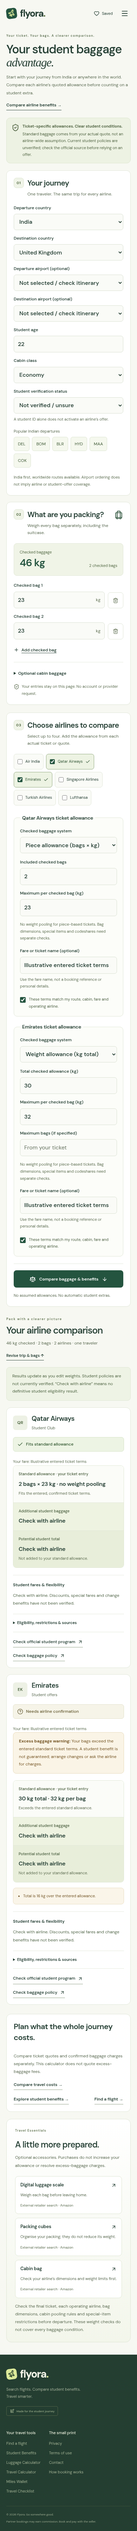
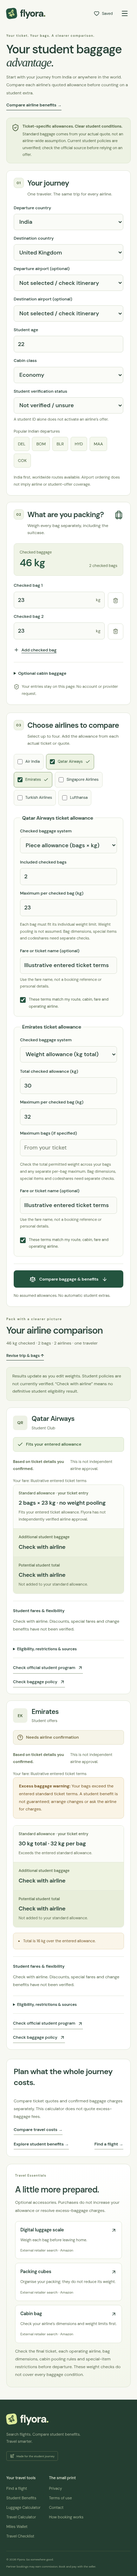
Clarify baggage guidance and require explicit ticket confirmation

diff --git a/tests/e2e/luggage-calculator.spec.ts b/tests/e2e/luggage-calculator.spec.ts
@@ -2,6 +2,10 @@ import { test, expect, type Locator, type Page } from '@playwright/test';
 import AxeBuilder from '@axe-core/playwright';
 
 const confirmation = 'These terms match my route, cabin, fare and operating airline.';
+const pieceHelp = 'Each bag must fit its individual weight limit. Weight pooling is not assumed.';
+const weightHelp = 'Check the total permitted weight across your bags and any separate per-bag maximum.';
+const unconfirmedTicket = 'Illustrative / unconfirmed ticket details. Confirm your route, cabin, fare and operating airline before relying on this comparison.';
+const confirmedTicket = 'Based on ticket details you confirmed. This is not independent airline approval.';
 
 function ticket(page: Page, airline: string) {
   return page.getByRole('group', { name: `${airline} ticket allowance`, exact: true });
@@ -19,18 +23,18 @@ async function openCalculator(page: Page) {
   await page.getByRole('spinbutton', { name: /^Checked bag 2\b/ }).fill('23');
 }
 
-async function pieceTicket(group: Locator, pieces = '2', kg = '23') {
+async function pieceTicket(group: Locator, pieces = '2', kg = '23', confirm = true) {
   await group.getByRole('combobox', { name: 'Checked baggage system', exact: true }).selectOption('pieces');
   await group.getByLabel('Included checked bags', { exact: true }).fill(pieces);
   await group.getByLabel('Maximum per checked bag (kg)', { exact: true }).fill(kg);
-  await group.getByRole('checkbox', { name: confirmation, exact: true }).check();
+  if (confirm) await group.getByRole('checkbox', { name: confirmation, exact: true }).check();
 }
 
-async function weightTicket(group: Locator, total = '30', kg = '32') {
+async function weightTicket(group: Locator, total = '30', kg = '32', confirm = true) {
   await group.getByRole('combobox', { name: 'Checked baggage system', exact: true }).selectOption('weight');
   await group.getByLabel('Total checked allowance (kg)', { exact: true }).fill(total);
   await group.getByLabel('Maximum per checked bag (kg)', { exact: true }).fill(kg);
-  await group.getByRole('checkbox', { name: confirmation, exact: true }).check();
+  if (confirm) await group.getByRole('checkbox', { name: confirmation, exact: true }).check();
 }
 
 async function compare(page: Page) {
@@ -54,6 +58,68 @@ test('India-first defaults compare two 23 kg bags without inventing a ticket or 
   await expect(page.getByText('Optional accessories. Purchases do not increase your allowance or resolve excess-baggage charges.', { exact: true })).toBeVisible();
 });
 
+test('help text follows each ticket’s allowance system without piece guidance under weight allowances', async ({ page }) => {
+  await openCalculator(page);
+  const qatar = ticket(page, 'Qatar Airways');
+  const emirates = ticket(page, 'Emirates');
+  await pieceTicket(qatar);
+  await weightTicket(emirates);
+  await expect(qatar.getByText(pieceHelp)).toBeVisible();
+  await expect(qatar.getByText(weightHelp)).toHaveCount(0);
+  await expect(emirates.getByText(weightHelp)).toBeVisible();
+  await expect(emirates.getByText(pieceHelp)).toHaveCount(0);
+  await expect(emirates.getByText(/pooling|piece-based/i)).toHaveCount(0);
+  await qatar.getByRole('combobox', { name: 'Checked baggage system', exact: true }).selectOption('weight');
+  await expect(qatar.getByText(weightHelp)).toBeVisible();
+  await expect(qatar.getByText(/pooling|piece-based/i)).toHaveCount(0);
+  await qatar.getByRole('combobox', { name: 'Checked baggage system', exact: true }).selectOption('pieces');
+  await expect(qatar.getByText(pieceHelp)).toBeVisible();
+  await expect(qatar.getByText(weightHelp)).toHaveCount(0);
+});
+
+test('ticket confirmation requires an active opt-in and unconfirmed results stay illustrative', async ({ page }) => {
+  await openCalculator(page);
+  const qatarTicket = ticket(page, 'Qatar Airways');
+  const emiratesTicket = ticket(page, 'Emirates');
+  const qatarConfirmation = qatarTicket.getByRole('checkbox', { name: confirmation, exact: true });
+  const emiratesConfirmation = emiratesTicket.getByRole('checkbox', { name: confirmation, exact: true });
+  await expect(qatarConfirmation).not.toBeChecked();
+  await expect(emiratesConfirmation).not.toBeChecked();
+  await pieceTicket(qatarTicket, '2', '23', false);
+  await weightTicket(emiratesTicket, '46', '23', false);
+  await expect(qatarConfirmation).not.toBeChecked();
+  await expect(emiratesConfirmation).not.toBeChecked();
+  await compare(page);
+  const qatar = comparison(page, 'Qatar Airways');
+  const emirates = comparison(page, 'Emirates');
+  for (const card of [qatar, emirates]) {
+    await expect(card.locator('.baggage-outcome')).toHaveText('Needs airline confirmation');
+    await expect(card.locator('.baggage-ticket-status')).toHaveText(unconfirmedTicket);
+    await expect(card.getByText('Fits your entered allowance', { exact: true })).toHaveCount(0);
+    await expect(card.getByText('Fits your entered ticket allowance. Flyora has not independently verified airline approval.', { exact: true })).toHaveCount(0);
+  }
+  await qatarConfirmation.check();
+  await expect(qatar.locator('.baggage-outcome')).toHaveText('Fits your entered allowance');
+  await expect(qatar.locator('.baggage-ticket-status')).toHaveText(confirmedTicket);
+  await expect(qatar.getByText('Fits your entered ticket allowance. Flyora has not independently verified airline approval.', { exact: true })).toBeVisible();
+  await expect(emirates.locator('.baggage-ticket-status')).toHaveText(unconfirmedTicket);
+  await expect(emiratesConfirmation).not.toBeChecked();
+  await qatarConfirmation.uncheck();
+  await expect(qatar.locator('.baggage-outcome')).toHaveText('Needs airline confirmation');
+  await expect(qatar.locator('.baggage-ticket-status')).toHaveText(unconfirmedTicket);
+  await qatarConfirmation.check();
+  await qatarTicket.getByLabel('Maximum per checked bag (kg)', { exact: true }).fill('24');
+  await expect(qatarConfirmation).not.toBeChecked();
+  await expect(qatar.locator('.baggage-outcome')).toHaveText('Needs airline confirmation');
+  await expect(qatar.locator('.baggage-ticket-status')).toHaveText(unconfirmedTicket);
+  await qatarConfirmation.check();
+  await page.reload();
+  await expect(qatarConfirmation).not.toBeChecked();
+  await expect(emiratesConfirmation).not.toBeChecked();
+  await page.getByRole('region', { name: 'Choose airlines to compare', exact: true }).getByRole('checkbox', { name: 'Air India', exact: true }).check();
+  await expect(ticket(page, 'Air India').getByRole('checkbox', { name: confirmation, exact: true })).not.toBeChecked();
+});
+
 test('compares entered piece and weight allowances side by side and updates weights without restarting', async ({ page }) => {
   await openCalculator(page);
   await pieceTicket(ticket(page, 'Qatar Airways'));
@@ -61,15 +127,15 @@ test('compares entered piece and weight allowances side by side and updates weig
   await compare(page);
   const qatar = comparison(page, 'Qatar Airways');
   const emirates = comparison(page, 'Emirates');
-  await expect(qatar.locator('.baggage-outcome')).toHaveText('Fits standard allowance');
+  await expect(qatar.locator('.baggage-outcome')).toHaveText('Fits your entered allowance');
   await expect(qatar.getByText(/^2 bags × 23 kg · no weight pooling/)).toBeVisible();
   await expect(emirates.getByText(/^30 kg total · 32 kg per bag/)).toBeVisible();
   await expect(emirates.getByText('Total is 16 kg over the entered allowance.', { exact: true })).toBeVisible();
   await expect(emirates.getByText('Exceeds the entered standard allowance.', { exact: true })).toBeVisible();
   await page.getByRole('spinbutton', { name: /^Checked bag 2\b/ }).fill('7');
   await expect(page.getByText('30 kg checked · 2 bags · 2 airlines · one traveler', { exact: true })).toBeVisible();
-  await expect(qatar.locator('.baggage-outcome')).toHaveText('Fits standard allowance');
-  await expect(emirates.locator('.baggage-outcome')).toHaveText('Fits standard allowance');
+  await expect(qatar.locator('.baggage-outcome')).toHaveText('Fits your entered allowance');
+  await expect(emirates.locator('.baggage-outcome')).toHaveText('Fits your entered allowance');
   await expect(emirates.getByText('Total is 16 kg over the entered allowance.', { exact: true })).toHaveCount(0);
 });
 
@@ -83,8 +149,8 @@ test('piece allowances reject pooling and excess bag counts even when total weig
   await page.getByRole('spinbutton', { name: /^Checked bag 2\b/ }).fill('22');
   await expect(page.getByText('46 kg checked · 2 bags · 2 airlines · one traveler', { exact: true })).toBeVisible();
   await expect(qatar.getByText(/^Bag 1 exceeds the 23 kg per-bag limit/)).toBeVisible();
-  await expect(qatar.locator('.baggage-outcome')).not.toHaveText('Fits standard allowance');
-  await expect(comparison(page, 'Emirates').locator('.baggage-outcome')).toHaveText('Fits standard allowance');
+  await expect(qatar.locator('.baggage-outcome')).not.toHaveText('Fits your entered allowance');
+  await expect(comparison(page, 'Emirates').locator('.baggage-outcome')).toHaveText('Fits your entered allowance');
   await page.getByRole('button', { name: 'Add checked bag', exact: true }).click();
   await page.getByRole('spinbutton', { name: /^Checked bag 3\b/ }).fill('1');
   await expect(qatar.getByText('3 bags exceed the 2-bag limit.', { exact: true })).toBeVisible();
@@ -96,12 +162,12 @@ test('route, cabin and fare edits invalidate confirmed ticket allowances', async
   await pieceTicket(qatarTicket);
   await compare(page);
   const qatar = comparison(page, 'Qatar Airways');
-  await expect(qatar.locator('.baggage-outcome')).toHaveText('Fits standard allowance');
+  await expect(qatar.locator('.baggage-outcome')).toHaveText('Fits your entered allowance');
   await page.getByRole('combobox', { name: 'Destination country', exact: true }).selectOption('CA');
   await expect(qatarTicket.getByRole('checkbox', { name: confirmation, exact: true })).not.toBeChecked();
   await expect(qatar.locator('.baggage-outcome')).toHaveText('Needs airline confirmation');
   await qatarTicket.getByRole('checkbox', { name: confirmation, exact: true }).check();
-  await expect(qatar.locator('.baggage-outcome')).toHaveText('Fits standard allowance');
+  await expect(qatar.locator('.baggage-outcome')).toHaveText('Fits your entered allowance');
   await page.getByRole('combobox', { name: 'Cabin class', exact: true }).selectOption('business');
   await expect(qatarTicket.getByRole('checkbox', { name: confirmation, exact: true })).not.toBeChecked();
   await expect(qatar.locator('.baggage-outcome')).toHaveText('Needs airline confirmation');
@@ -123,7 +189,7 @@ test('optional cabin baggage is checked separately from checked bags', async ({ 
   await qatarTicket.getByRole('checkbox', { name: confirmation, exact: true }).check();
   await compare(page);
   const qatar = comparison(page, 'Qatar Airways');
-  await expect(qatar.getByText('Fits the entered, confirmed ticket terms.', { exact: true })).toBeVisible();
+  await expect(qatar.getByText('Fits your entered ticket allowance. Flyora has not independently verified airline approval.', { exact: true })).toBeVisible();
   await expect(qatar.getByText('Exceeds entered cabin limits', { exact: true })).toBeVisible();
   await expect(qatar.getByText(/^Cabin: Bag 1 exceeds the 7 kg per-bag limit/)).toBeVisible();
   await expect(qatar.locator('.baggage-outcome')).toHaveText('Exceeds allowance');
@@ -155,7 +221,7 @@ for (const width of [390, 360]) {
     expect(await page.evaluate(() => document.documentElement.scrollWidth <= innerWidth)).toBe(true);
     await pieceTicket(ticket(page, 'Qatar Airways'));
     await compare(page);
-    await expect(comparison(page, 'Qatar Airways').locator('.baggage-outcome')).toHaveText('Fits standard allowance');
+    await expect(comparison(page, 'Qatar Airways').locator('.baggage-outcome')).toHaveText('Fits your entered allowance');
     await expect(comparison(page, 'Emirates').locator('.baggage-outcome')).toHaveText('Needs airline confirmation');
     await page.getByRole('spinbutton', { name: /^Checked bag 2\b/ }).fill('22');
     await expect(page.getByText('45 kg checked · 2 bags · 2 airlines · one traveler', { exact: true })).toBeVisible();

diff --git a/src/components/student-baggage-calculator.tsx b/src/components/student-baggage-calculator.tsx
@@ -79,7 +79,7 @@ export function StudentBaggageCalculator({ essentials, today }: { essentials: Tr
           const ticket = tickets[code] ?? newTicket();
           const field = (key: 'total' | 'perBag' | 'maxPieces' | 'cabinPieces' | 'cabinKg', label: string, whole = false) => <label className="tool-label">{label}<input type="number" inputMode={whole ? 'numeric' : 'decimal'} min={key === 'perBag' || key === 'cabinKg' ? '0.01' : '0'} step={whole ? '1' : '0.01'} value={ticket[key]} placeholder="From your ticket" onChange={event => editTicket(code, { [key]: event.target.value, confirmed: false })} /></label>;
           return <fieldset className="baggage-ticket" key={code}><legend>{company.name} ticket allowance</legend><label className="tool-label">Checked baggage system<select value={ticket.basis} onChange={event => editTicket(code, { basis: event.target.value as TicketInput['basis'], total: '', perBag: '', maxPieces: '', confirmed: false })}><option value="unknown">I don’t know yet</option><option value="weight">Weight allowance (kg total)</option><option value="pieces">Piece allowance (bags × kg)</option></select></label>
-            {ticket.basis !== 'unknown' && <><div className="baggage-form-grid">{field('total', ticket.basis === 'weight' ? 'Total checked allowance (kg)' : 'Included checked bags', ticket.basis === 'pieces')}{field('perBag', 'Maximum per checked bag (kg)')}{ticket.basis === 'weight' && field('maxPieces', 'Maximum bags (if specified)', true)}</div><p className="baggage-small-note">No weight pooling for piece-based tickets. Bag dimensions, special items and codeshares need separate checks.</p></>}
+            {ticket.basis !== 'unknown' && <><div className="baggage-form-grid">{field('total', ticket.basis === 'weight' ? 'Total checked allowance (kg)' : 'Included checked bags', ticket.basis === 'pieces')}{field('perBag', 'Maximum per checked bag (kg)')}{ticket.basis === 'weight' && field('maxPieces', 'Maximum bags (if specified)', true)}</div><p className="baggage-small-note baggage-system-help">{ticket.basis === 'pieces' ? 'Each bag must fit its individual weight limit. Weight pooling is not assumed.' : 'Check the total permitted weight across your bags and any separate per-bag maximum.'} Bag dimensions, special items and codeshares need separate checks.</p></>}
             <label className="tool-label">Fare or ticket name (optional)<input maxLength={80} value={ticket.fareName} placeholder="e.g. the fare name on your quote" onChange={event => editTicket(code, { fareName: event.target.value })} /><small>Use the fare name, not a booking reference or personal details.</small></label>
             {cabin.length > 0 && <div className="baggage-form-grid">{field('cabinPieces', 'Included cabin bags', true)}{field('cabinKg', 'Maximum per cabin bag (kg)')}</div>}
             <label className="baggage-confirm"><input type="checkbox" checked={ticket.confirmed} onChange={event => editTicket(code, { confirmed: event.target.checked })} />These terms match my route, cabin, fare and operating airline.</label>
@@ -93,10 +93,13 @@ export function StudentBaggageCalculator({ essentials, today }: { essentials: Tr
       <p className="baggage-result-notice" role="status">{revision ? 'Journey changed: reconfirm each ticket’s route, cabin, fare and operating airline. ' : 'Results update as you edit weights. '}Student policies are not currently verified. “Check with airline” means no definitive student eligibility result.</p>
       <div className="baggage-comparison-grid">{comparison.map(result => <article className="baggage-result-card" aria-label={result.airline.name + ' baggage comparison'} key={result.airline.code}>
         <div className="baggage-result-brand"><span>{result.airline.code}</span><div><h3>{result.airline.name}</h3><p>{result.airline.programName}</p></div></div>
-        <p className={'baggage-outcome ' + (result.status === 'Fits standard allowance' ? 'baggage-outcome-fit' : '')}>{result.status === 'Fits standard allowance' ? <Check size={17} aria-hidden="true" /> : <CircleHelp size={17} aria-hidden="true" />}{result.status}</p>
+        <p className={'baggage-outcome ' + (result.status === 'Fits your entered allowance' ? 'baggage-outcome-fit' : '')}>{result.status === 'Fits your entered allowance' ? <Check size={17} aria-hidden="true" /> : <CircleHelp size={17} aria-hidden="true" />}{result.status}</p>
+        <p className="baggage-small-note baggage-ticket-status">{tickets[result.airline.code]?.confirmed
+          ? <><strong>Based on ticket details you confirmed.</strong> This is not independent airline approval.</>
+          : <><strong>Illustrative / unconfirmed ticket details.</strong> Confirm your route, cabin, fare and operating airline before relying on this comparison.</>}</p>
         {tickets[result.airline.code]?.fareName.trim() && <p className="baggage-small-note">Your fare: {tickets[result.airline.code].fareName.trim()}</p>}
         {result.standard.status === 'exceeds' && <p className="baggage-warning"><strong>Excess baggage warning:</strong> Your bags exceed the entered standard ticket terms. A student benefit is not guaranteed; arrange changes or ask the airline for charges.</p>}
-        <dl className="baggage-result-values"><div><dt>Standard allowance · your ticket entry</dt><dd>{ruleLabel(ticketTerms(tickets[result.airline.code] ?? newTicket()).standard)}<small>{result.standard.status === 'fits' ? 'Fits the entered, confirmed ticket terms.' : result.standard.status === 'exceeds' ? 'Exceeds the entered standard allowance.' : 'Ticket-specific confirmation needed.'}</small></dd></div><div><dt>Additional student baggage</dt><dd>{result.program?.extraLabel ?? 'Check with airline'}</dd></div><div><dt>Potential student total</dt><dd>{ruleLabel(result.program?.allowance ?? null)}<small>{result.eligibility.applicable ? 'May apply after airline confirmation.' : 'Not added to your standard allowance.'}</small></dd></div>{cabin.length > 0 && <div><dt>Cabin baggage</dt><dd>{result.cabin.status === 'fits' ? 'Fits entered cabin limits' : result.cabin.status === 'exceeds' ? 'Exceeds entered cabin limits' : 'Needs airline confirmation'}</dd></div>}</dl>
+        <dl className="baggage-result-values"><div><dt>Standard allowance · your ticket entry</dt><dd>{ruleLabel(ticketTerms(tickets[result.airline.code] ?? newTicket()).standard)}<small>{result.standard.status === 'fits' ? 'Fits your entered ticket allowance. Flyora has not independently verified airline approval.' : result.standard.status === 'exceeds' ? 'Exceeds the entered standard allowance.' : 'Ticket-specific confirmation needed.'}</small></dd></div><div><dt>Additional student baggage</dt><dd>{result.program?.extraLabel ?? 'Check with airline'}</dd></div><div><dt>Potential student total</dt><dd>{ruleLabel(result.program?.allowance ?? null)}<small>{result.eligibility.applicable ? 'May apply after airline confirmation.' : 'Not added to your standard allowance.'}</small></dd></div>{cabin.length > 0 && <div><dt>Cabin baggage</dt><dd>{result.cabin.status === 'fits' ? 'Fits your entered cabin limits' : result.cabin.status === 'exceeds' ? 'Exceeds entered cabin limits' : 'Needs airline confirmation'}</dd></div>}</dl>
         {result.standard.reasons.length > 0 && <ul className="baggage-result-reasons">{result.standard.reasons.map(reason => <li key={reason}>{reason}</li>)}</ul>}
         {result.cabin.reasons.length > 0 && <ul className="baggage-result-reasons">{result.cabin.reasons.map(reason => <li key={reason}>Cabin: {reason}</li>)}</ul>}
         <div className="baggage-offer-notes"><h4>Student fares & flexibility</h4>{result.program ? <ul>{result.program.benefits.map(benefit => <li key={benefit}>{benefit}</li>)}</ul> : <p>Check with airline. Discounts, special fares and change benefits have not been verified.</p>}</div>

diff --git a/tests/unit/student-baggage.test.ts b/tests/unit/student-baggage.test.ts
@@ -199,12 +199,29 @@ describe('conditional student eligibility', () => {
 });
 
 describe('airline comparisons and result states', () => {
-  it('distinguishes a known standard fit from unverified student terms', () => {
+  it('labels a confirmed fit as the user’s entered allowance, independently of unverified student terms', () => {
     const result = compareBaggage(airline(), journey(), [23, 23], [], ticket(), today);
-    expect(result.status).toBe('Fits standard allowance');
+    expect(result.status).toBe('Fits your entered allowance');
     expect(result.standard.status).toBe('fits');
     expect(result.student.status).toBe('unknown');
     expect(result.eligibility.applicable).toBe(false);
+  });
+
+  it.each([
+    { name: 'piece-based', standard: twoPieces },
+    { name: 'weight-based', standard: { basis: 'weight', totalKg: 46, perBagKg: 23 } as BaggageRule },
+  ])('requires explicit ticket-context confirmation for a $name allowance, even when every entered bag fits', ({ standard }) => {
+    const terms = ticket({ standard, contextConfirmed: false, cabin: { pieces: 1, perBagKg: 7 } });
+    const unconfirmed = compareBaggage(airline(), journey(), [23, 23], [7], terms, today);
+    expect(assessBags([23, 23], standard).status).toBe('fits');
+    expect(unconfirmed.status).toBe('Needs airline confirmation');
+    expect(unconfirmed.standard.status).toBe('unknown');
+    expect(unconfirmed.cabin.status).toBe('unknown');
+    const confirmed = compareBaggage(airline(), journey(), [23, 23], [7], { ...terms, contextConfirmed: true }, today);
+    expect(confirmed.status).toBe('Fits your entered allowance');
+    expect(confirmed.standard.status).toBe('fits');
+    expect(confirmed.cabin.status).toBe('fits');
+    expect(confirmed.student.status).toBe('unknown');
   });
 
   it('keeps explicit standard excess warnings when unknown student terms prevent a definitive overall result', () => {
@@ -227,7 +244,7 @@ describe('airline comparisons and result states', () => {
   it('retains a standard fit if a conditional program has a smaller total allowance', () => {
     const result = compareBaggage(airline({ program: program({ allowance: { basis: 'pieces', pieces: 1, perBagKg: 23 } }) }), journey(), [23, 23], [], ticket({ studentActivationConfirmed: true }), today);
     expect(result.student.status).toBe('exceeds');
-    expect(result.status).toBe('Fits standard allowance');
+    expect(result.status).toBe('Fits your entered allowance');
   });
 
   it('does not activate student extras from verification alone or an unconfirmed ticket context', () => {
@@ -252,7 +269,7 @@ describe('airline comparisons and result states', () => {
     const results = companies.map((company, index) => compareBaggage(company, journey(), [23, 23], [], tickets[index], today));
     expect(results.map(result => result.airline.code)).toEqual(['XX', 'YY']);
     expect(results.map(result => result.standard.status)).toEqual(['fits', 'exceeds']);
-    expect(results.map(result => result.status)).toEqual(['Fits standard allowance', 'Needs airline confirmation']);
+    expect(results.map(result => result.status)).toEqual(['Fits your entered allowance', 'Needs airline confirmation']);
   });
 
   it.each([
@@ -267,7 +284,7 @@ describe('airline comparisons and result states', () => {
 
   it('handles optional cabin bags separately from checked baggage', () => {
     expect(compareBaggage(airline(), journey(), [23, 23], [7], ticket(), today).status).toBe('Needs airline confirmation');
-    expect(compareBaggage(airline(), journey(), [23, 23], [7], ticket({ cabin: { pieces: 1, perBagKg: 7 } }), today).status).toBe('Fits standard allowance');
+    expect(compareBaggage(airline(), journey(), [23, 23], [7], ticket({ cabin: { pieces: 1, perBagKg: 7 } }), today).status).toBe('Fits your entered allowance');
     const overweightCabin = compareBaggage(airline(), journey(), [23, 23], [8], ticket({ cabin: { pieces: 1, perBagKg: 7 } }), today);
     expect(overweightCabin.status).toBe('Exceeds allowance');
     expect(overweightCabin.cabin.reasons).toContain('Bag 1 exceeds the 7 kg per-bag limit (1 kg over).');

diff --git a/src/lib/student-baggage.ts b/src/lib/student-baggage.ts
@@ -52,7 +52,7 @@ export interface TicketTerms {
   cabin?: { pieces: number; perBagKg: number };
 }
 export type Fit = 'fits' | 'exceeds' | 'unknown';
-export type ComparisonStatus = 'Fits standard allowance' | 'May fit with student benefit' | 'Exceeds allowance' | 'Needs airline confirmation';
+export type ComparisonStatus = 'Fits your entered allowance' | 'May fit with student benefit' | 'Exceeds allowance' | 'Needs airline confirmation';
 export interface FitResult { status: Fit; reasons: string[] }
 
 export function validRule(rule: BaggageRule): boolean {
@@ -127,7 +127,7 @@ export function compareBaggage(airline: BaggageAirline, journey: Journey, checke
   const student = assessBags(checked, eligibility.applicable && program ? program.allowance : null);
   const cabinResult = cabin.length ? assessBags(cabin, terms.contextConfirmed && journeyComplete && terms.cabin ? { basis: 'pieces', ...terms.cabin } : null) : { status: 'fits' as Fit, reasons: [] };
   let status: ComparisonStatus = 'Needs airline confirmation';
-  if (standard.status === 'fits') status = 'Fits standard allowance';
+  if (standard.status === 'fits') status = 'Fits your entered allowance';
   else if (student.status === 'fits') status = 'May fit with student benefit';
   else if (standard.status === 'exceeds' && student.status === 'exceeds') status = 'Exceeds allowance';
   // Without reviewed student terms, excess against the entered standard stays explicit,

diff --git a/docs/luggage-calculator.md b/docs/luggage-calculator.md
@@ -38,6 +38,12 @@ no review date, age eligibility, standard allowance, student extra or discount i
 asserted. Official sources were blocked by the cloud environment's CONNECT 403 policy
 on 19 October 2026. Screenshot text and historic numbers are not verification evidence.
 
+Ticket confirmation defaults to unchecked. Completing the form does not confirm any
+ticket. Each result card explicitly labels unconfirmed details as illustrative, and
+positive results require active confirmation and say “Fits your entered allowance.”
+User confirmation is never presented as independent approval by an airline. Editing
+ticket terms or journey details clears the relevant confirmation.
+
 Standard results use the user's entered and confirmed ticket terms only. Generic
 policies are never applied across every ticket. No official program has been activated
 by entering a student ID or selecting an airline. Discounts and flexibility benefits
@@ -86,3 +92,8 @@ Validated on 19 October 2026: 659 unit tests; 29 existing application browser te
 demo and primary Travelpayouts modes. Final primary-mode calculator and partner tests
 passed after accessibility fixes. Existing-page HTTP checks also passed. Live airline
 policy, fare and booking verification remains outside these tests.
+
+The final help-text and confirmation corrections were validated with 661 unit tests,
+11 calculator browser tests, lint, TypeScript and the primary production build. The
+results screenshots were refreshed to show the corrected system-specific guidance
+and explicitly distinguish user-confirmed ticket inputs from airline approval.
